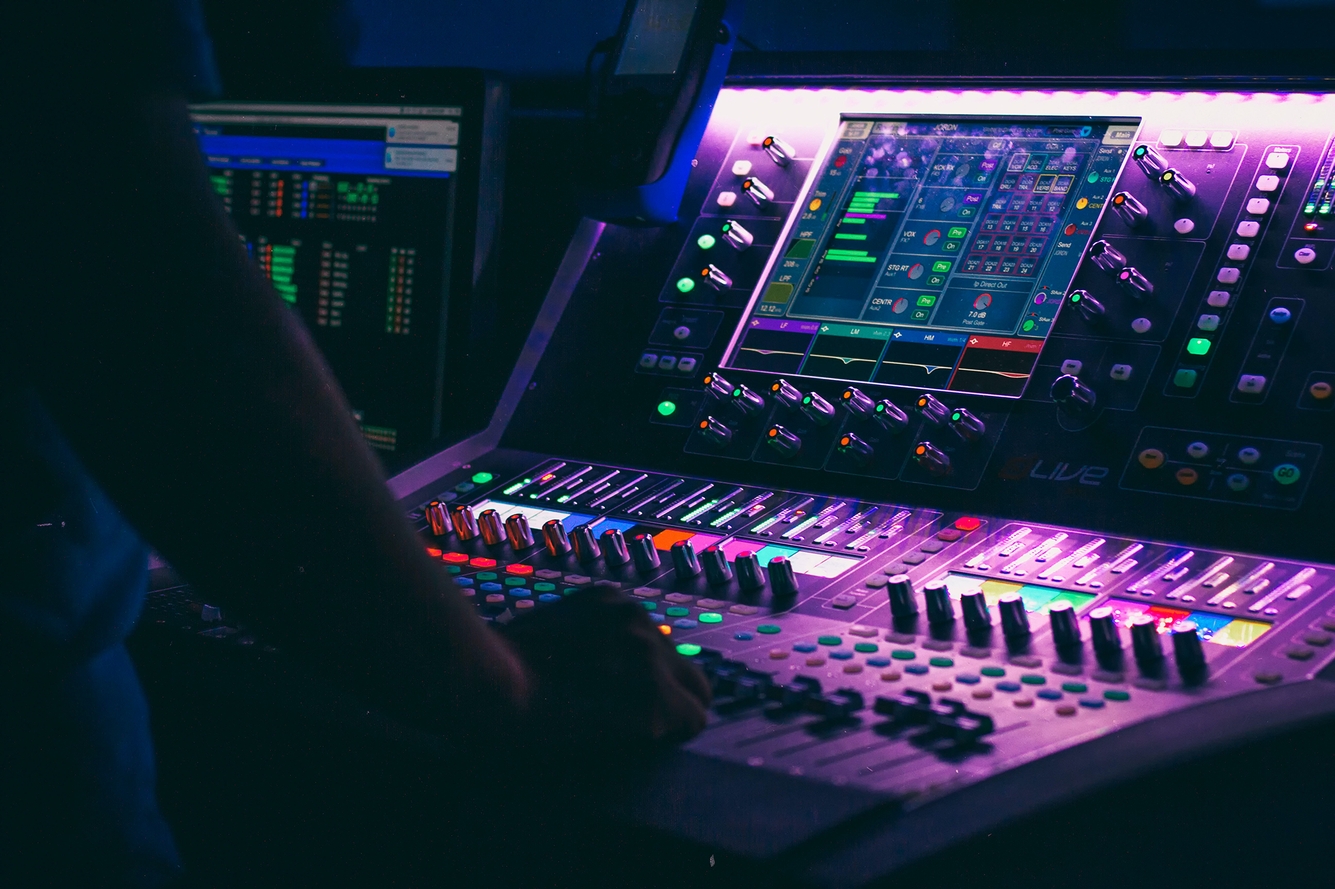
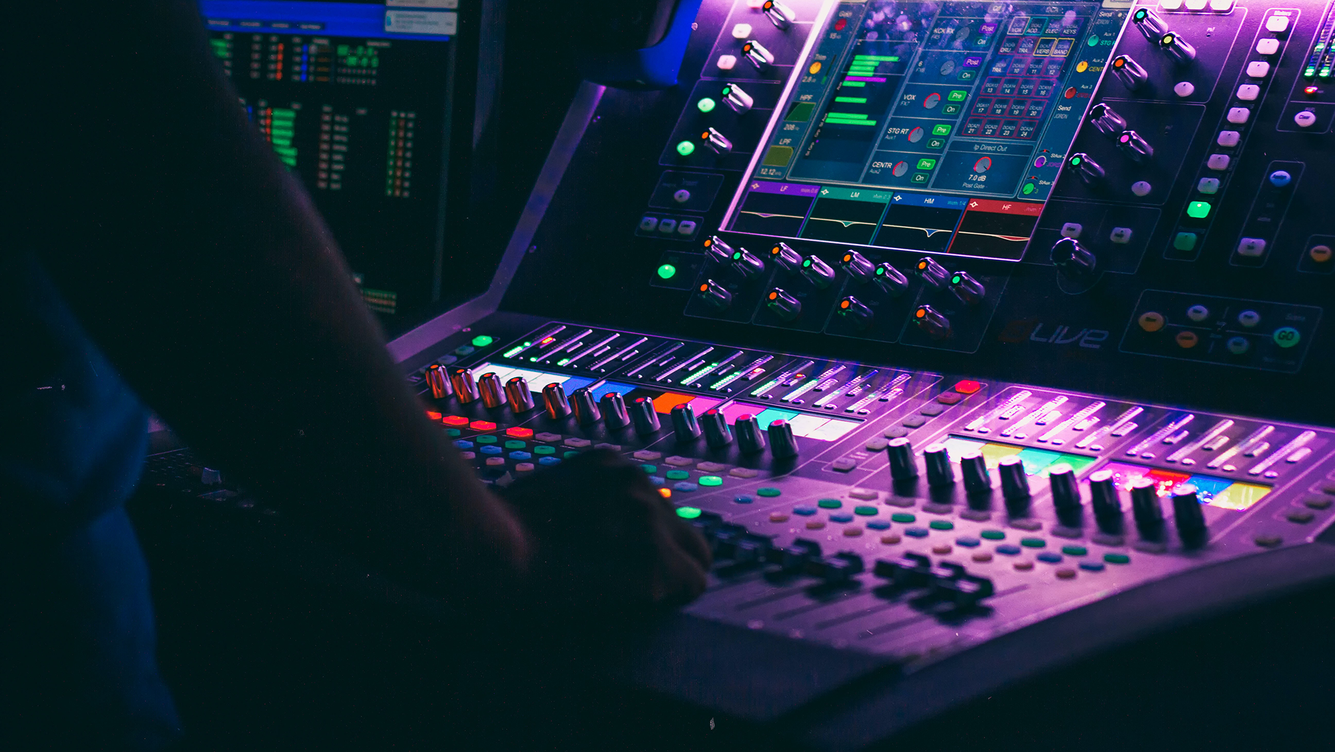
main top section 문구 넓이 수정(태블릿, 모바일 반응형 수정)

diff --git a/sdesign-vue-project/src/components/MainTop.vue b/sdesign-vue-project/src/components/MainTop.vue
@@ -28,13 +28,17 @@ export default {};
 
 .main-top-image {
   position: relative;
-  /* margin: 0; */
+  top: 0;
   width: 100%;
   height: 480px;
-  background-image: url(../assets/mainImage.png);
+  background-image: url(../assets/mainTopImg.png);
   overflow: hidden;
+  background-size: cover;
+  -moz-background-size: cover;
+  -o-background-size: cover;
+  background-attachment: fixed;
   background-repeat: no-repeat;
-  background-position: center;
+  background-position: bottom;
 }
 
 .main-top-headline-box {
@@ -47,12 +51,14 @@ export default {};
 
 .main-top-headline {
   position: relative;
-  /* top: -480px; */
-  padding: 75px 50px;
-  width: 300px;
+  top: 0;
+  padding: 75px 0;
+  width: 35%;
+  min-width: 300px;
   display: flex;
   flex-flow: column;
-  margin: 0 auto;
+  margin: 20px 40%;
+  /* border: 1px solid violet; */
 }
 .main-top-headline h1 {
   text-align: left;
@@ -68,9 +74,11 @@ export default {};
   text-align: left;
 }
 .main-top-headline p {
-  width: 554px;
+  /* width: 554px; */
+  width: 151%;
+  max-width: 554px;
   height: 36px;
-  margin-bottom: 30px;
+  margin: 30px 0;
   font-family: Helvetica;
   font-size: 16px;
   font-weight: bold;
@@ -128,12 +136,18 @@ export default {};
 
 @media (max-width: 1600px) {
   .main-top-headline {
-    width: 350px;
+    min-width: 350px;
+    margin: 20px auto;
+  }
+  .main-top-headline p {
+    width: 130%;
+    word-break: keep-all;
   }
 }
 @media (max-width: 1500px) {
   .main-top-headline {
-    width: 330px;
+    min-width: 330px;
+    margin: 20px auto;
   }
   .main-top-headline p {
     width: 400px;
@@ -141,7 +155,7 @@ export default {};
 }
 @media (max-width: 1250px) {
   .main-top-headline {
-    width: 330px;
+    min-width: 330px;
   }
 }
 /* 태블릿 */
@@ -152,6 +166,11 @@ export default {};
   .main-top-image {
     background-image: url(../assets/1020px.png);
     width: 100%;
+    background-attachment: scroll;
+  }
+  .main-top-headline {
+    min-width: 210px;
+    margin: 0 auto;
   }
 }
 @media (max-width: 750px) {
@@ -161,7 +180,7 @@ export default {};
 }
 @media (max-width: 599px) {
   .main-top-headline {
-    width: 140px;
+    min-width: 140px;
   }
 }
 /* 블랙베리 모바일 */
@@ -186,7 +205,7 @@ export default {};
   }
   .main-top-headline {
     top: 30px;
-    width: 335px;
+    min-width: 335px;
     padding: 0;
     margin: 0 auto;
   }
@@ -212,11 +231,11 @@ export default {};
     background-color: #101010;
     position: relative;
     width: 100%;
-    height: 269px;
+    height: 279px;
   }
   .main-top-headline {
     top: 0px;
-    width: 305px;
+    min-width: 305px;
     padding: 0;
     margin: 0 auto;
   }
@@ -249,11 +268,11 @@ export default {};
     display: block;
     position: relative;
     width: 100%;
-    height: 247px;
+    height: 267px;
     background-color: #101010;
   }
   .main-top-headline {
-    width: 270px;
+    min-width: 270px;
     padding: 0;
     margin: 0 auto;
   }
@@ -267,8 +286,8 @@ export default {};
     height: 51px;
   }
   .main-top-headline p {
-    margin-bottom: 20px;
-    width: 275px;
+    margin-bottom: 30px;
+    width: 100%;
   }
 }
 </style>
